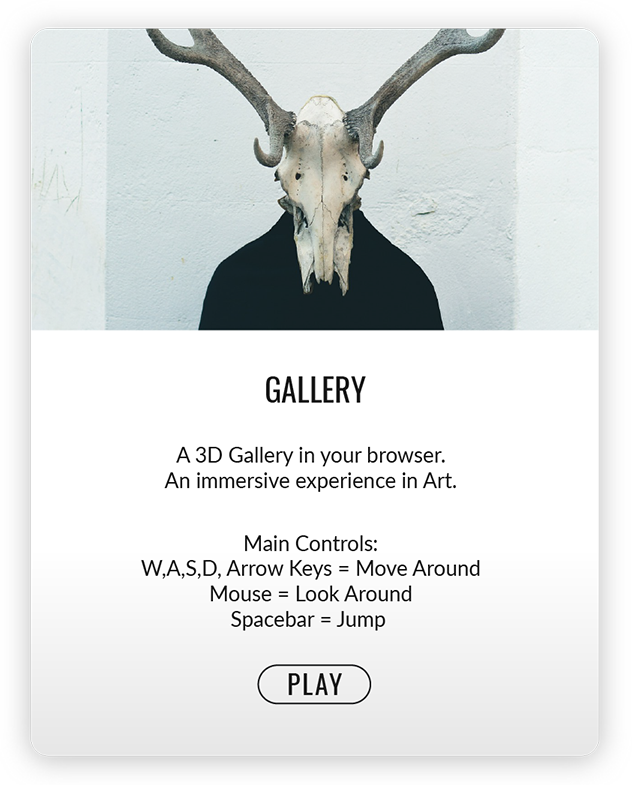
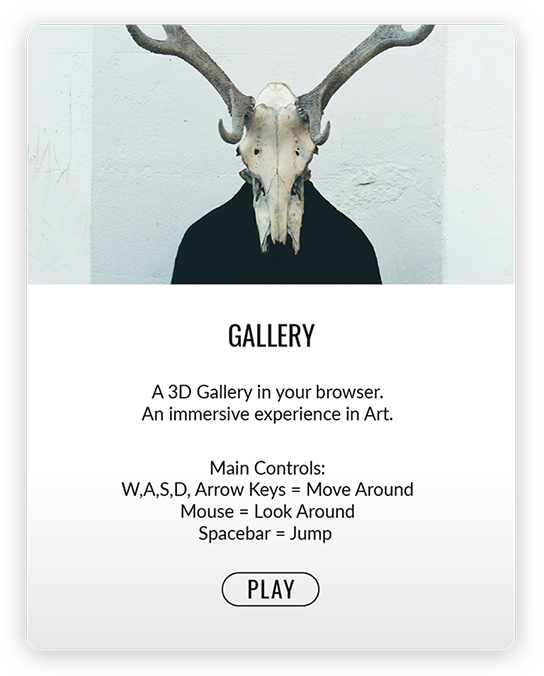
Minimized img files, remved tab color

diff --git a/public/views/projects.html b/public/views/projects.html
@@ -4,8 +4,6 @@
   <meta charset="UTF-8">
   <meta name="viewport" content="width=device-width, minimum-scale=1.0, maximum-scale=1.0"></meta>
 
-  <meta name="theme-color" content="#20232c" />
-
   <meta propety="og:type" content="website">
   <meta property="og:title" content="Gibran Garcia - Portfolio">
   <meta property="og:description" content="Hello! My name is Gibran Garcia and I am a creative maker near New York City.">
